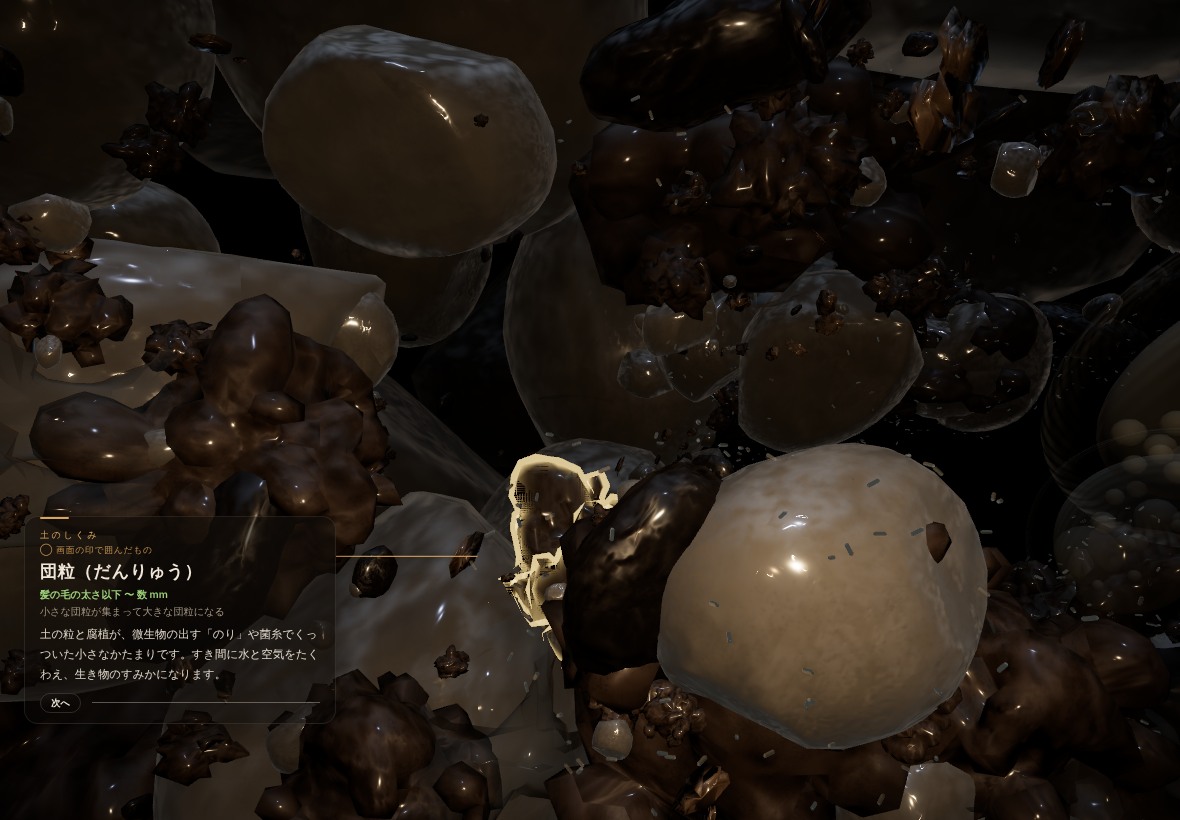
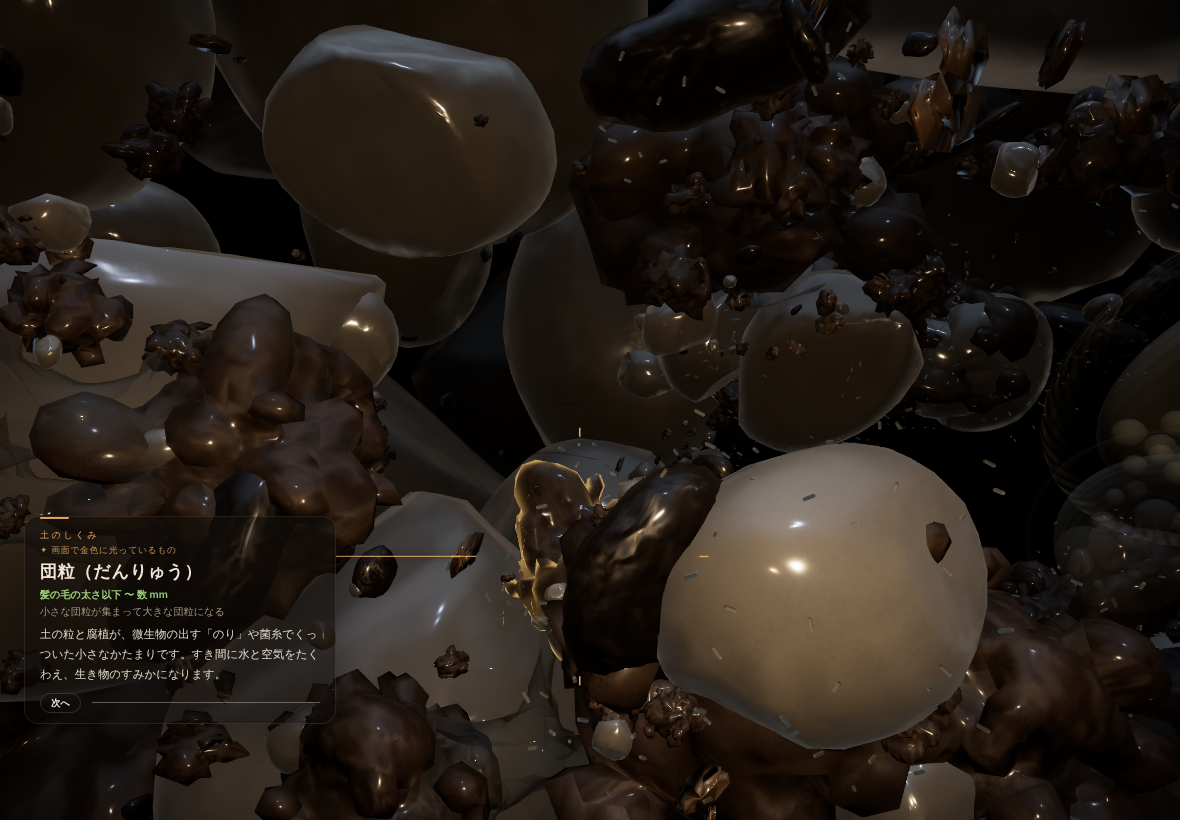
UNDERSOIL: replace thick yellow outline shell with a thin rim glow
Claude-Session: https://claude.ai/code/session_01HXHWaeyj425ipGMnohy3Vo

diff --git a/undersoil/src/ui/pointer.ts b/undersoil/src/ui/pointer.ts
@@ -3,20 +3,18 @@
 import * as THREE from 'three/webgpu';
 import './pointer.css';
 import type { Target } from '../game/encounters';
-import { dot, float, mix, normalLocal, normalView, oneMinus, positionLocal, positionViewDirection, pow, saturate, time, vec3 } from 'three/tsl';
+import { dot, float, mix, normalView, oneMinus, positionViewDirection, pow, saturate, time, vec3 } from 'three/tsl';
 
 /** 説明している物そのものの輪郭を光らせる（裏返して少し大きくした形＝輪郭線、表は縁だけ光る） */
 function makeHighlight(scene: THREE.Scene) {
   const t = time.mul(3.0).sin().mul(0.5).add(0.5);
-  const outline = new THREE.MeshBasicNodeMaterial({ side: THREE.BackSide, transparent: true, depthWrite: false });
-  outline.colorNode = vec3(1.0, 0.72, 0.32); outline.opacityNode = mix(float(0.55), float(0.95), t);
-  outline.positionNode = positionLocal.add(normalLocal.mul(0.06));
-  const rim = new THREE.MeshBasicNodeMaterial({ transparent: true, depthWrite: false, blending: THREE.AdditiveBlending });
-  rim.colorNode = vec3(1.0, 0.7, 0.3).mul(pow(oneMinus(saturate(dot(normalView, positionViewDirection))), 2.2)).mul(mix(float(0.5), float(1.0), t));
+  // 縁だけが金色に光る（形を太らせた殻は使わない。粒が大きいと殻が厚い黄色の塊に見えた）
+  const rim = new THREE.MeshBasicNodeMaterial({ transparent: true, depthWrite: false, blending: THREE.AdditiveBlending, polygonOffset: true, polygonOffsetFactor: -2, polygonOffsetUnits: -2 });
+  rim.colorNode = vec3(1.0, 0.62, 0.22).mul(pow(oneMinus(saturate(dot(normalView, positionViewDirection))), 2.2)).mul(mix(float(0.6), float(1.3), t));
   const group = new THREE.Group(); group.matrixAutoUpdate = false; group.renderOrder = 20; scene.add(group);
-  const a = new THREE.Mesh(undefined, outline), b = new THREE.Mesh(undefined, rim); a.renderOrder = b.renderOrder = 20; group.add(a, b); group.visible = false;
+  const b = new THREE.Mesh(undefined, rim); b.renderOrder = 20; group.add(b); group.visible = false;
   return {
-    set(geo: THREE.BufferGeometry | undefined, m: THREE.Matrix4 | undefined) { if (!geo || !m) { group.visible = false; return; } a.geometry = b.geometry = geo; group.matrix.copy(m); group.matrixWorldNeedsUpdate = true; group.visible = true; },
+    set(geo: THREE.BufferGeometry | undefined, m: THREE.Matrix4 | undefined) { if (!geo || !m) { group.visible = false; return; } b.geometry = geo; group.matrix.copy(m); group.matrixWorldNeedsUpdate = true; group.visible = true; },
     hide() { group.visible = false; },
   };
 }
@@ -63,7 +61,7 @@ export function makePointer(camera: THREE.PerspectiveCamera, scenes: THREE.Scene
         ring.style.display = ring2.style.display = ticks.style.display = 'none'; line.setAttribute('d', '');
         return;
       }
-      arrow.style.display = 'none'; ring.style.display = ring2.style.display = ticks.style.display = cached.geo ? 'none' : '';
+      arrow.style.display = 'none'; ring.style.display = ring2.style.display = cached.geo ? 'none' : ''; ticks.style.display = '';
       ring.setAttribute('cx', String(x)); ring.setAttribute('cy', String(y)); ring.setAttribute('r', String(r * pulse));
       ring2.setAttribute('cx', String(x)); ring2.setAttribute('cy', String(y)); ring2.setAttribute('r', String(r * 1.22));
       const t = r * 1.22, k = 9;
